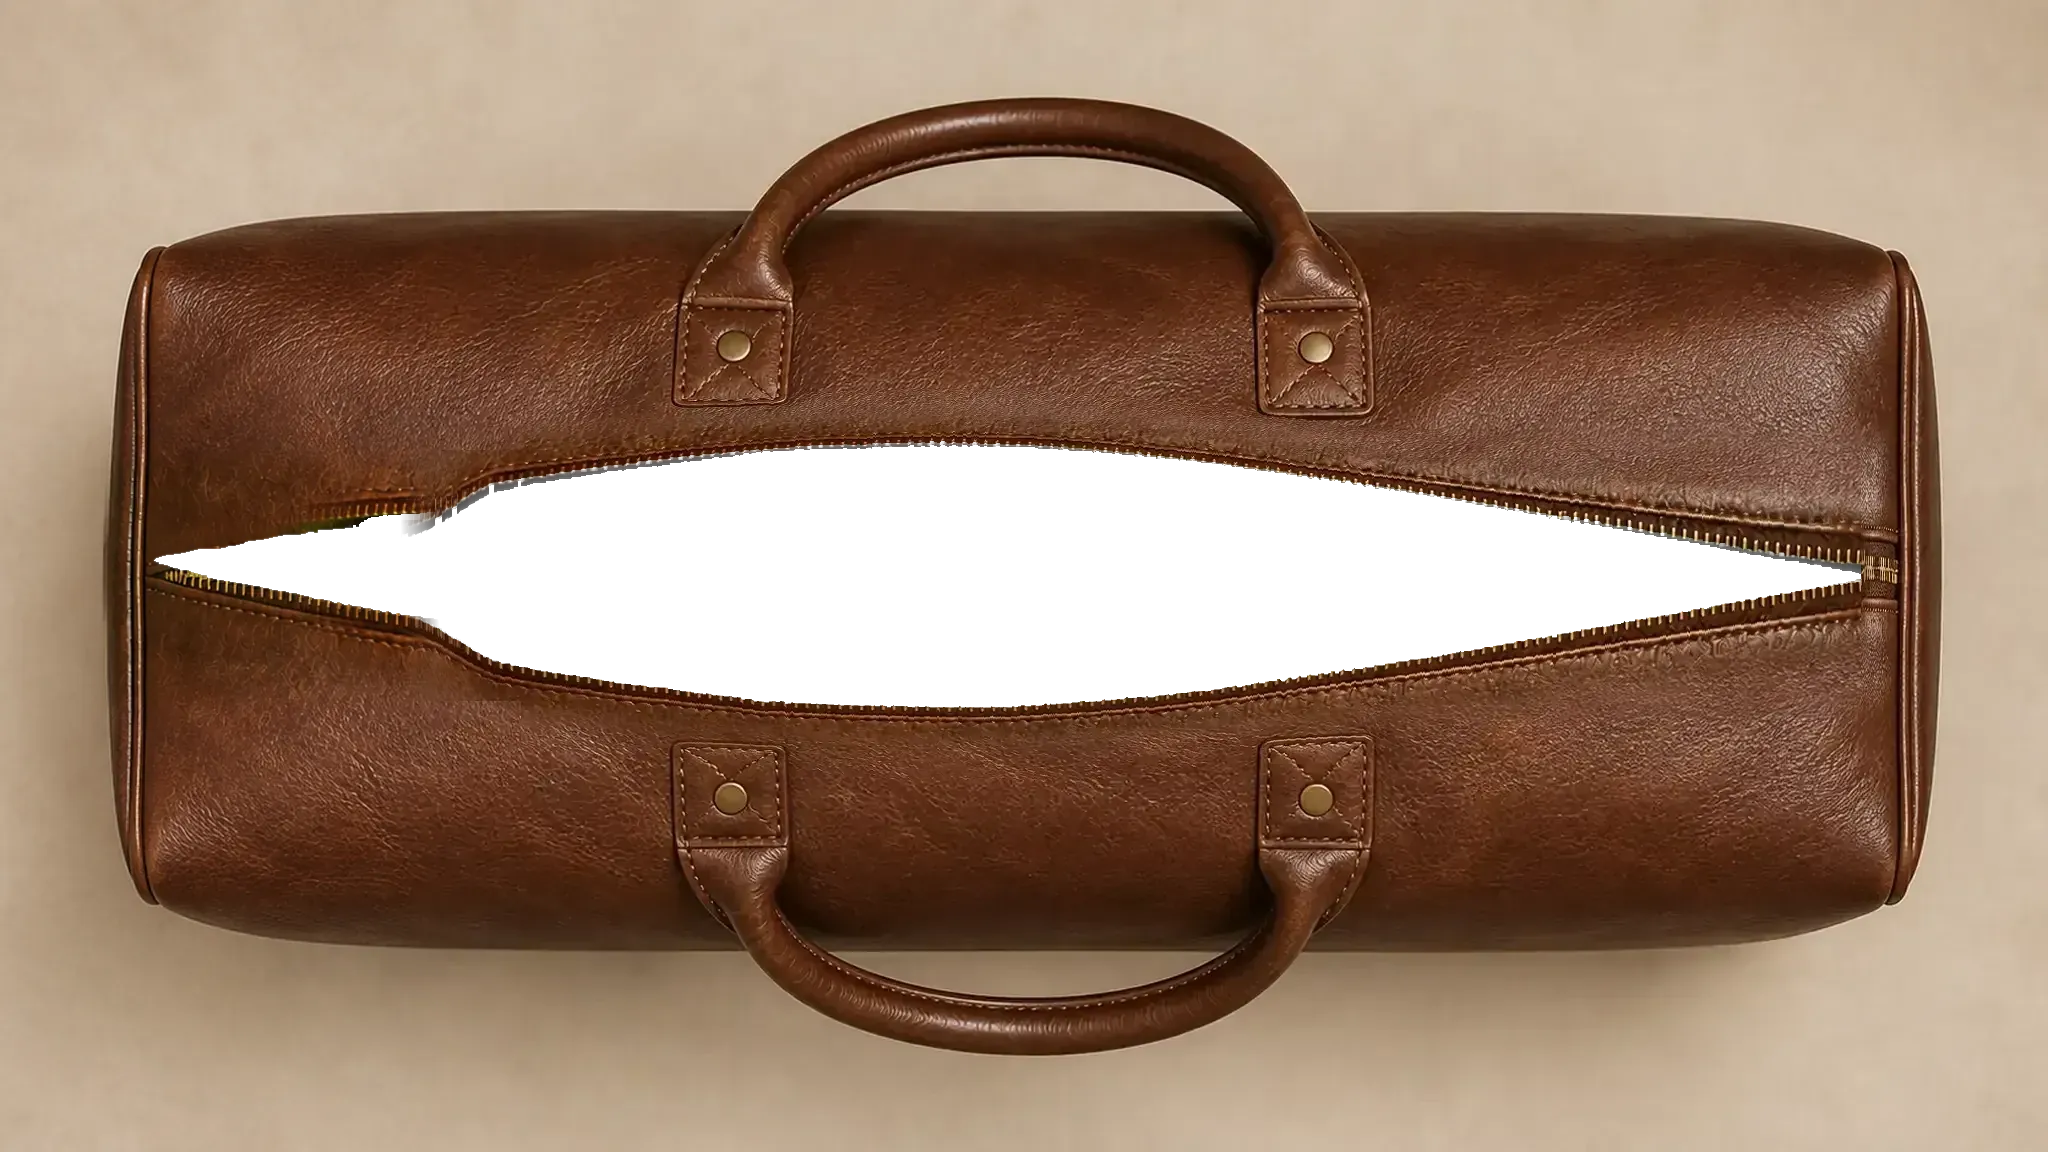
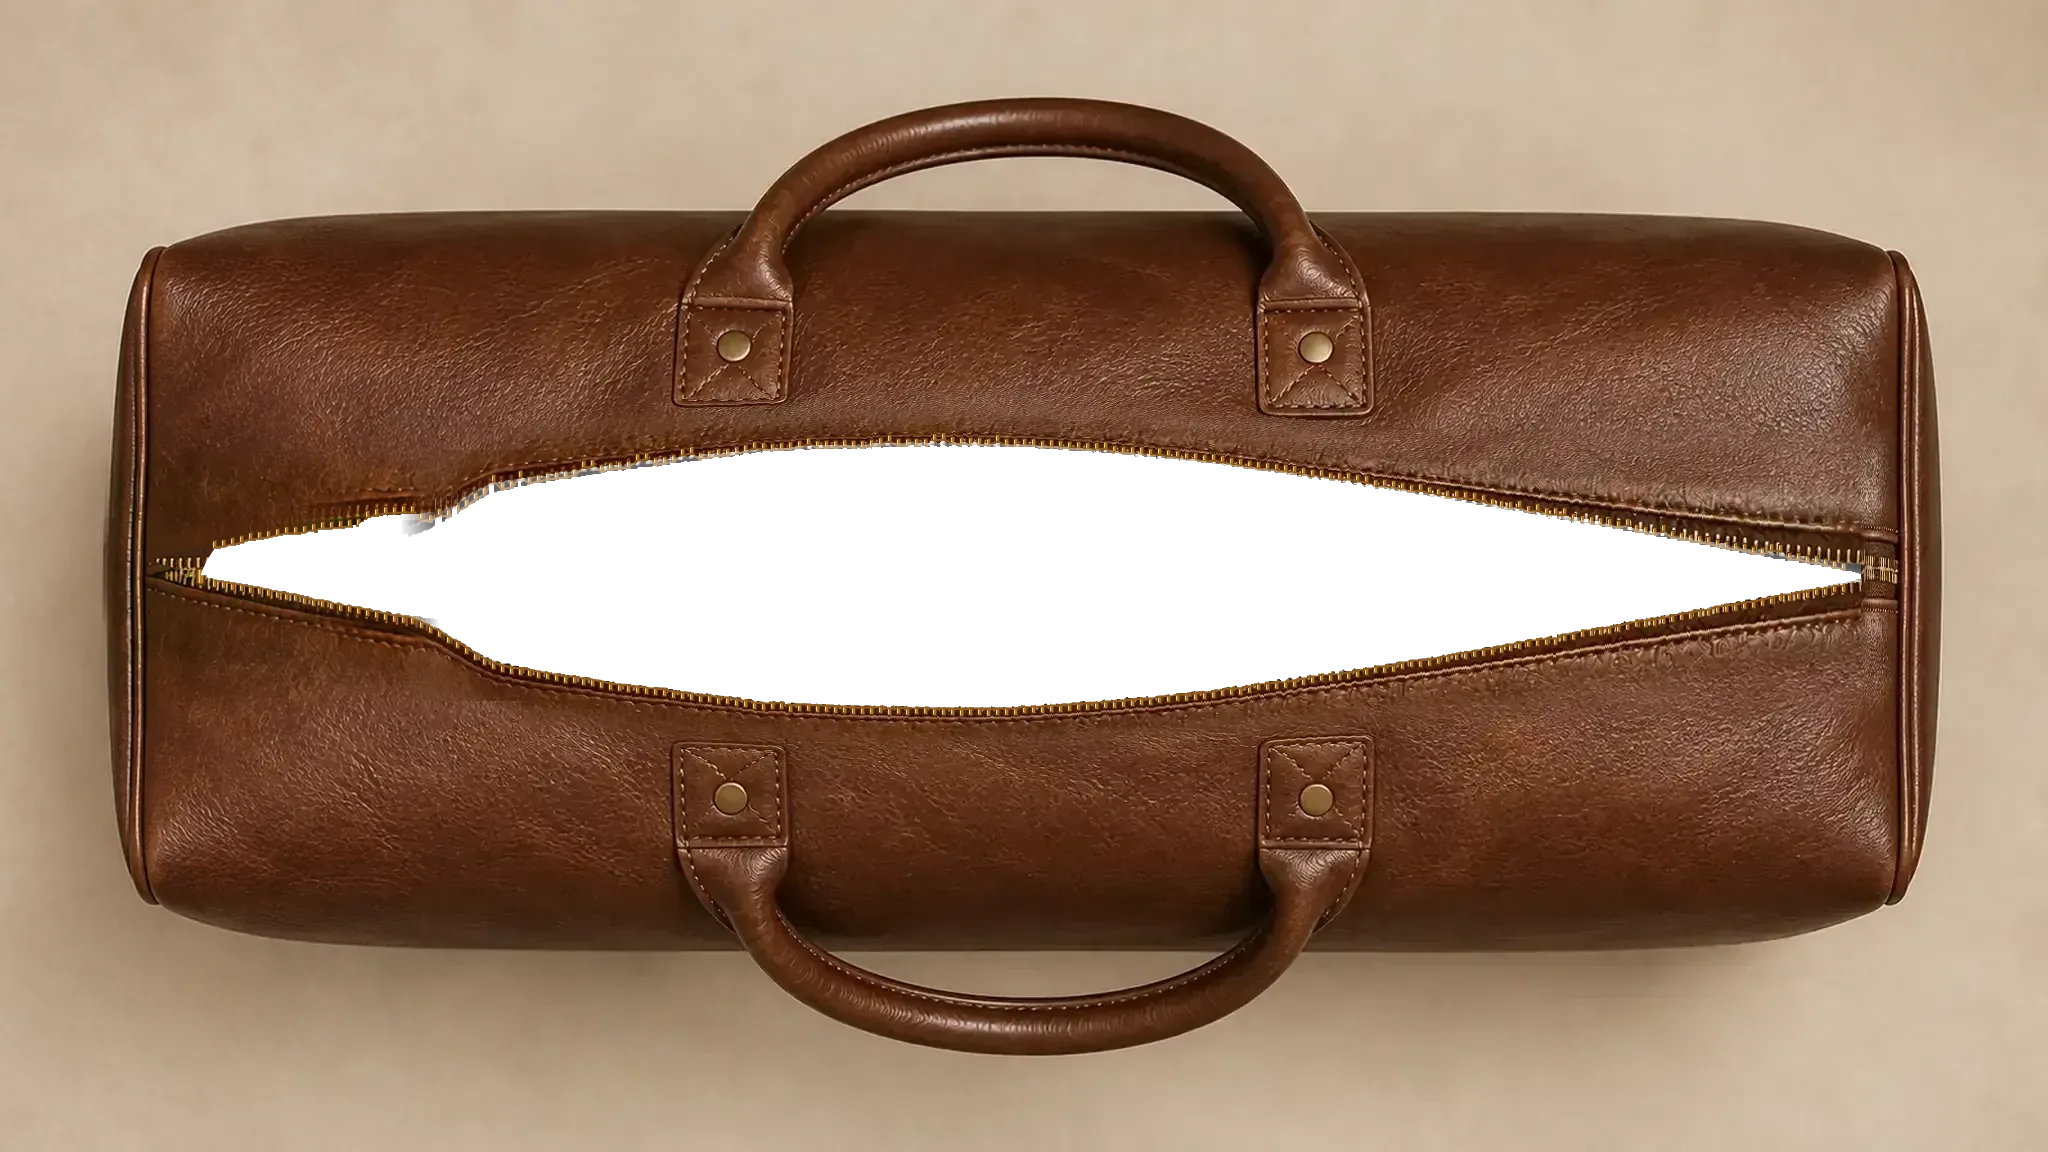
fix(zipper-pull): 牛仔褲改鈕扣不扣的完整褲身，包包開口左端補鍊齒
- 牛仔褲重做為 jeansv3：全新生成基底，兩側有完整口袋、鉚釘、皮帶環、
  外側縫線與真實丹寧斜紋，取代原本外擴出的模糊漸層
- 六幀鈕扣一律不扣，腰頭從閉合幀就微開、隨拉鍊連續敞開，
  消除「腰頭扣著但開口很大」的矛盾狀態
- 包包開口上下唇補上連續黃銅鍊齒，左端改為 x=200 圓弧收合，
  不再是銳角尖刺

diff --git a/effects/zipper-pull/effect.js b/effects/zipper-pull/effect.js
@@ -9,11 +9,11 @@ const gestureCursor = document.createElement("div");
 // 程式依進度在相鄰幀間交叉淡化。apex=每幀開口尖點沿拉鍊軸的原圖座標（素材量測）。
 const GARMENTS = {
   jeans: {
-    frames: Array.from({ length: 6 }, (_, i) => `assets/frames/jeansv2-${i}.webp`),
+    frames: Array.from({ length: 6 }, (_, i) => `assets/frames/jeansv3-${i}.webp`),
     sliderUrl: "assets/slider-jeans2.png",
     axis: "v",
     line: 1024,
-    apex: [208, 541, 631, 719, 780, 830]
+    apex: [288, 325, 486, 525, 768, 781]
   },
   bag: {
     frames: Array.from({ length: 6 }, (_, i) => `assets/frames/bag-${i}.webp`),
